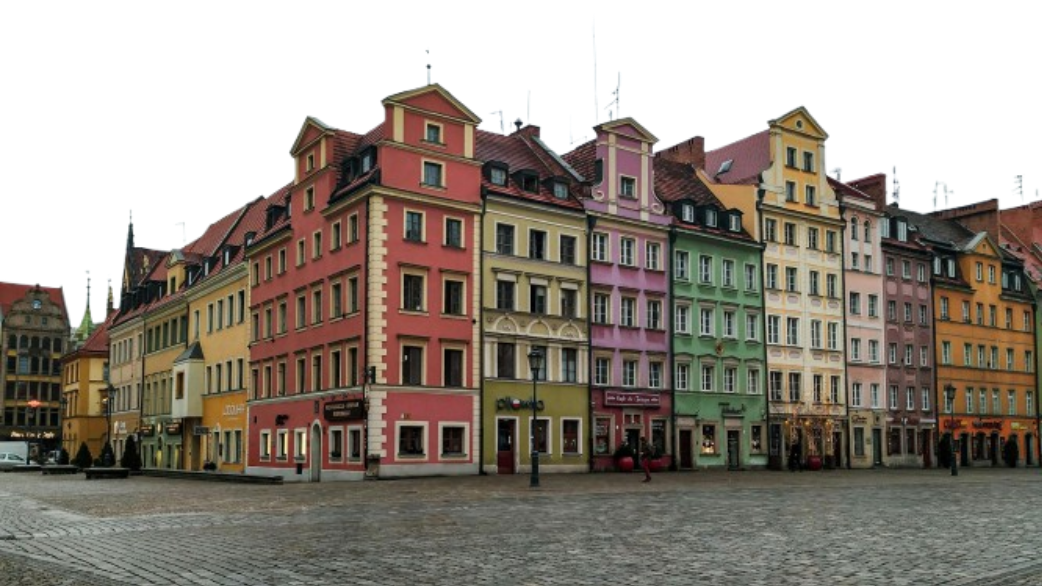
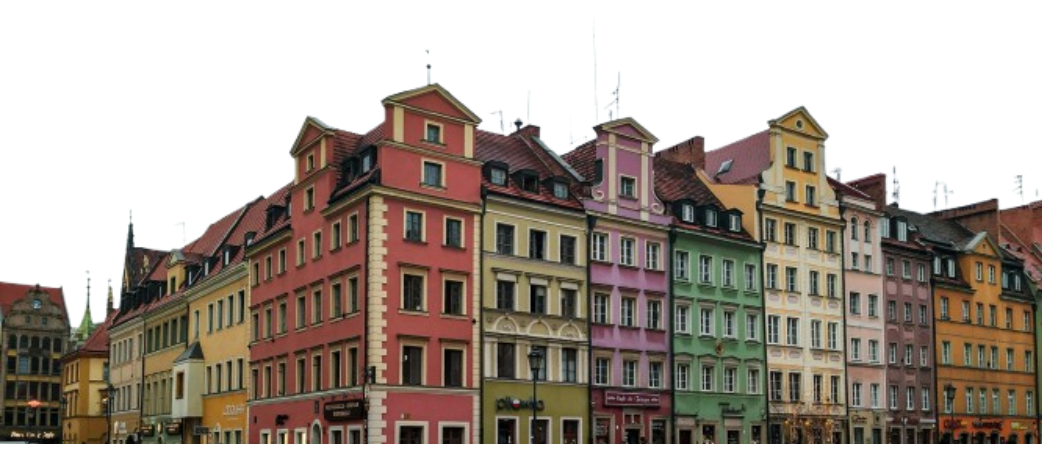
0.2
edited imgs

diff --git a/styles.css b/styles.css
@@ -96,23 +96,21 @@ body {
 }
 
 .im1 {
-    min-width: 40%;
+    min-width: 41%;
 }
 
 .im2 {
-    min-width: 29%;
+    min-width: 25%;
 }
 
 .im3 {
-    min-width: 31%;
-    margin-left: 4.3%;
-    margin-bottom: -1%;
+    min-width: 25%;
 }
 
 .im1,
 .im2,
 .im3 {
-    scale: 1.15;
+
     opacity: 0.85;
 }
 
